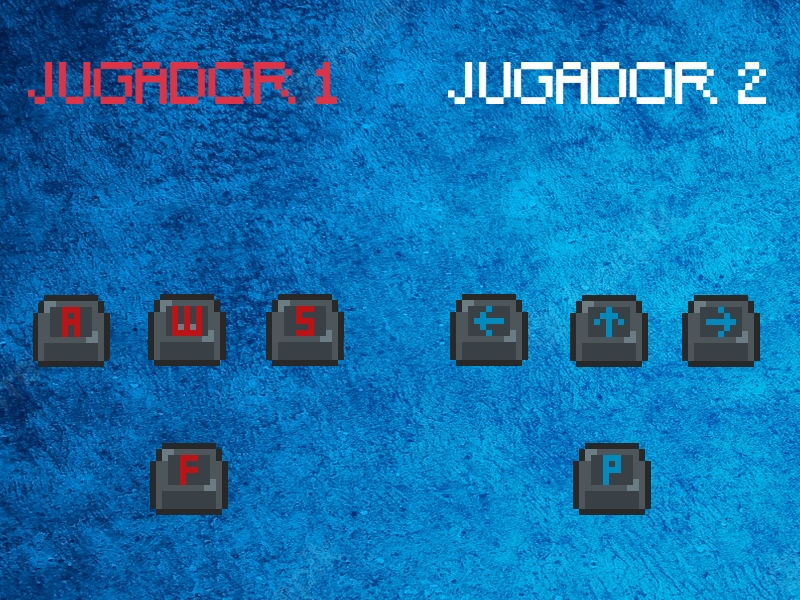
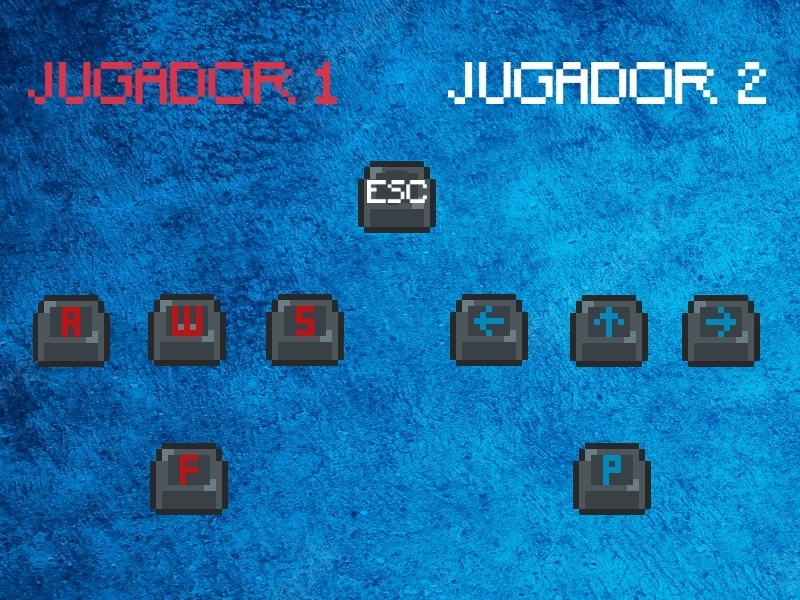
image update

Changed region(s): [[0.4375, 0.24, 0.5625, 0.39]]

diff --git a/Fase4/src/main/resources/static/gameScripts/Juego.js b/Fase4/src/main/resources/static/gameScripts/Juego.js
@@ -125,19 +125,17 @@ class EscenaJuego extends Phaser.Scene {
         this.sky.setDepth(-1);
         this.sky.setDisplaySize(800, 600);
 
-
+        /*
         //Añadimos el boton de pausa
         this.pauseImage = this.add.image(0, 0, 'Pausa');
         //Lo hacemos interactivo
         this.pauseButtonContainer = this.add.container(400, 50, [this.pauseImage]);
         this.pauseButtonContainer.setSize(this.pauseImage.height, this.pauseImage.width);
-        this.pauseButtonContainer.setInteractive();
 
         if (this.pauseButtonContainer) {
             this.pauseButtonContainer.on('pointerdown', () => {
                 if (this.scene && this.scene.wake && this.scene.pause) {
-                    this.scene.wake('PauseMenuScene');
-                    this.scene.bringToTop('PauseMenuScene');
+                    this.scene.launch('PauseMenuScene');
                     this.scene.pause('GameScene');
                 }
             });
@@ -151,7 +149,7 @@ class EscenaJuego extends Phaser.Scene {
             this.pauseButtonContainer.on('pointerout', () => {
                 this.pauseImage.setScale(1);
             });
-        }
+        }*/
 
 
         //Añadimos las plataformas
